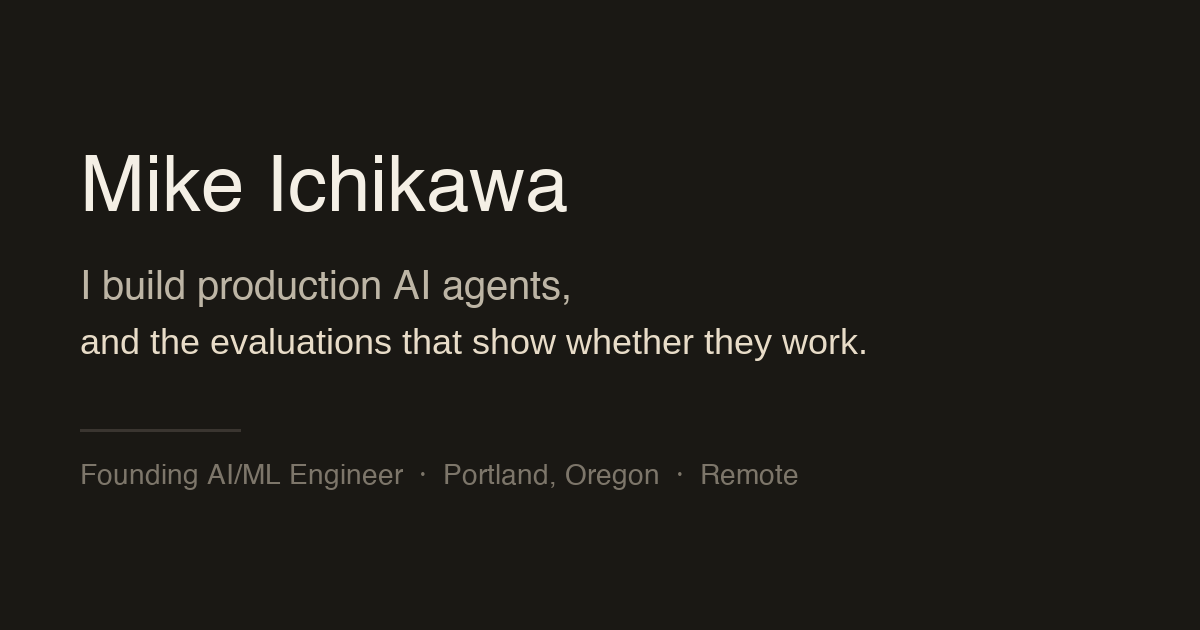
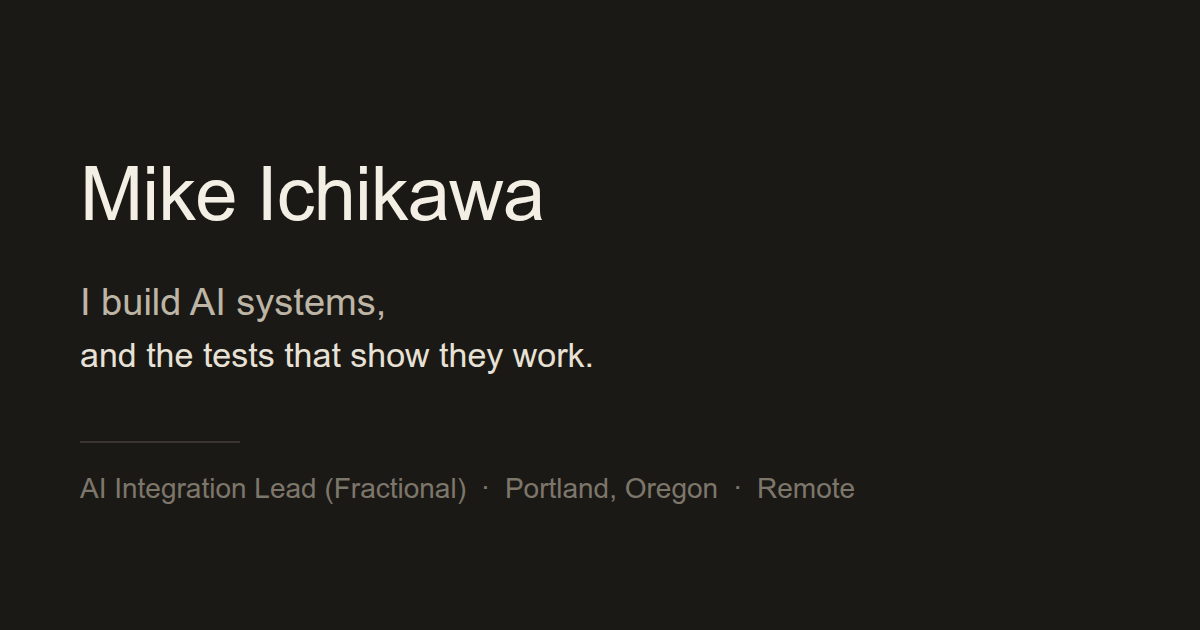
Homepage: current role first ('Now'), the agent as 'Before this', engine and study as side projects; new header and preview card

Changed region(s): [[0.0617, 0.4222, 0.7092, 0.6032], [0.0617, 0.6635, 0.7092, 0.8143], [0.0617, 0.2413, 0.4933, 0.3619]]

diff --git a/index.html b/index.html
@@ -4,19 +4,19 @@
 <meta charset="utf-8" />
 <meta name="viewport" content="width=device-width, initial-scale=1" />
 <title>Mike Ichikawa · AI engineer</title>
-<meta name="description" content="I build production AI agents, and the evaluations that show whether they work." />
+<meta name="description" content="I build AI systems, and the tests that show they work." />
 <link rel="icon" href="favicon.svg" type="image/svg+xml" />
 <link rel="canonical" href="https://mtichikawa.github.io/" />
 <meta property="og:type" content="website" />
 <meta property="og:url" content="https://mtichikawa.github.io/" />
 <meta property="og:title" content="Mike Ichikawa · AI engineer" />
-<meta property="og:description" content="I build production AI agents, and the evaluations that show whether they work." />
+<meta property="og:description" content="I build AI systems, and the tests that show they work." />
 <meta property="og:image" content="https://mtichikawa.github.io/og-card.png" />
 <meta property="og:image:width" content="1200" />
 <meta property="og:image:height" content="630" />
 <meta name="twitter:card" content="summary_large_image" />
 <meta name="twitter:title" content="Mike Ichikawa · AI engineer" />
-<meta name="twitter:description" content="I build production AI agents, and the evaluations that show whether they work." />
+<meta name="twitter:description" content="I build AI systems, and the tests that show they work." />
 <meta name="twitter:image" content="https://mtichikawa.github.io/og-card.png" />
 <link rel="preconnect" href="https://fonts.googleapis.com" />
 <link rel="preconnect" href="https://fonts.gstatic.com" crossorigin />
@@ -95,17 +95,6 @@ section:first-of-type{border-top:0}
 .links{font-family:var(--mono);font-size:.8rem;margin-top:.6rem}
 .links a{margin-right:1.25rem;text-decoration:none;border-bottom:1px solid var(--border)}
 
-/* ── FINDING (the probe study) ── */
-.finding{background:var(--bg-soft);border:1px solid var(--border);border-radius:4px;
-         padding:1.5rem;margin:1.25rem 0}
-.finding .lead{font-family:var(--serif);font-size:1.25rem;line-height:1.35;margin:0 0 .9rem;color:var(--ink)}
-.levers{display:grid;gap:.6rem;margin:1rem 0 0}
-.lever{display:grid;grid-template-columns:9rem 1fr;gap:.9rem;align-items:start;
-       font-size:.93rem;color:var(--ink-muted)}
-.lever b{font-family:var(--mono);font-size:.72rem;letter-spacing:.1em;text-transform:uppercase;
-         color:var(--ink);padding-top:.18rem}
-@media(max-width:34rem){.lever{grid-template-columns:1fr;gap:.15rem}}
-
 /* ── BEFORE ── */
 .before p{color:var(--ink-muted)}
 .before .list{font-family:var(--mono);font-size:.82rem;color:var(--ink-soft);
@@ -131,16 +120,6 @@ section:first-of-type{border-top:0}
 @media (max-width:640px){ .log{font-size:.68rem} .log.cols{font-size:.63rem} }
 .log b{color:var(--deep-accent);font-weight:500}
 .log .path{color:#9ec7e8}
-.fade{position:relative}
-.fade:after{content:"";position:absolute;left:0;right:0;bottom:0;height:4rem;pointer-events:none;
-            background:linear-gradient(to bottom,rgba(26,24,20,0),rgba(26,24,20,.96))}
-.two{display:grid;grid-template-columns:1fr 1fr;gap:1rem}
-@media(max-width:40rem){.two{grid-template-columns:1fr}}
-.ledger{width:100%;border-collapse:collapse;font-family:var(--mono);font-size:.78rem;margin:1rem 0 0}
-.ledger th{text-align:left;font-weight:500;color:var(--ink-soft);border-bottom:1px solid var(--border);
-           padding:.35rem .6rem .35rem 0;font-size:.7rem;letter-spacing:.08em;text-transform:uppercase}
-.ledger td{padding:.35rem .6rem .35rem 0;border-bottom:1px solid var(--border-soft);color:var(--ink-muted)}
-.v-solved{color:var(--ink-soft)} .v-fail{color:var(--red);font-weight:500} .v-void{color:#b08968}
 .note{font-family:var(--mono);font-size:.72rem;color:var(--ink-soft);margin-top:2.5rem}
 .cap{font-size:.93rem;color:var(--ink-muted);margin:.7rem 0 0}
 .fig{width:100%;height:auto;display:block;border:1px solid var(--border);border-radius:4px;background:#fff;cursor:zoom-in}
@@ -152,10 +131,10 @@ section:first-of-type{border-top:0}
 <header class="hero">
   <div class="wrap">
     <h1>Mike Ichikawa</h1>
-    <p class="lede">I build production AI agents, and the evaluations
-      <em>that show whether they work.</em></p>
+    <p class="lede">I build AI systems,
+      <em>and the tests that show they work.</em></p>
     <p class="meta">
-      <span>Founding AI/ML Engineer, Microclaw LLC</span>
+      <span>AI Integration Lead (Fractional)</span>
       <span>Portland, Oregon</span>
       <span>Remote, or on-site in Portland</span>
     </p>
@@ -171,13 +150,24 @@ section:first-of-type{border-top:0}
 <!-- ══ PROJECT INDEX ══ -->
 <section class="index">
   <div class="wrap">
-    <p class="index-lead">What I've built</p>
+    <p class="index-lead">Work</p>
     <div class="idx">
 
       <div class="idx-row">
+        <p class="idx-name"><a href="#now">Quoting app</a></p>
+        <p class="idx-what">Now. An LLM app that turns a customer's request for a quote, from
+          emails, drawings, scans and call notes, into product model numbers in seconds.</p>
+        <p class="idx-meta">
+          <span>Python &middot; Azure &middot; GitHub Actions</span>
+          <span>Client confidential</span>
+        </p>
+      </div>
+
+      <div class="idx-row">
         <p class="idx-name"><a href="#agent">M365 agent</a></p>
-        <p class="idx-what">A production AI agent in Microsoft Teams that picks one action out of
-          eighty-seven per request, and the scored test suite that tells me when it picks wrong.</p>
+        <p class="idx-what">Before this. A production AI agent in Microsoft Teams that chooses from
+          eighty-seven tools for each request, and the scored test suite that tells me when it
+          chooses wrong.</p>
         <p class="idx-meta">
           <span>TypeScript &middot; Azure OpenAI &middot; Microsoft Graph &middot; Postgres</span>
           <a href="https://marketplace.microsoft.com/en-us/product/saas/microclaw.microclaw?tab=Overview">Marketplace listing &rarr;</a>
@@ -185,22 +175,12 @@ section:first-of-type{border-top:0}
       </div>
 
       <div class="idx-row">
-        <p class="idx-name"><a href="#engine">Workflow engine</a></p>
-        <p class="idx-what">A multi-agent engine for long jobs, with a validator that checks the
-          graph before it runs.</p>
+        <p class="idx-name"><a href="#side">Side projects</a></p>
+        <p class="idx-what">A multi-agent workflow engine, and a study of what defeats a frontier
+          coding agent.</p>
         <p class="idx-meta">
-          <span>Python &middot; multi-agent orchestration</span>
-          <a href="https://mtichikawa.github.io/workflow-engine">Walkthrough &rarr;</a>
-        </p>
-      </div>
-
-      <div class="idx-row">
-        <p class="idx-name"><a href="#study">Coding-agent probe study</a></p>
-        <p class="idx-what">138 probes testing what defeats a frontier coding agent. The task it
-          produced fails Opus 5 and GPT-5.6 three times out of three.</p>
-        <p class="idx-meta">
-          <span>Python &middot; Docker &middot; harbor</span>
-          <a href="https://github.com/mtichikawa/klavis-tb3-submission">Repository &rarr;</a>
+          <a href="https://mtichikawa.github.io/workflow-engine">Engine walkthrough &rarr;</a>
+          <a href="https://github.com/mtichikawa/klavis-tb3-submission">Study repository &rarr;</a>
         </p>
       </div>
 
@@ -208,10 +188,64 @@ section:first-of-type{border-top:0}
   </div>
 </section>
 
-<!-- ══ 1. THE AGENT ══ -->
+<!-- ══ 1. NOW ══ -->
+<section id="now">
+  <div class="wrap">
+    <p class="eyebrow">Now &middot; AI Integration Lead (Fractional)</p>
+    <h2>AI integration for a small manufacturer</h2>
+
+    <div class="work">
+      <p>I lead AI integration for a small manufacturer, working directly with the owners. I'm
+        building a quoting app for their sales team and deploying the company's Azure platform
+        and delivery pipeline, with a self-hosted AI assistant as the next app on it.</p>
+
+      <p>A customer's request for a quote arrives however they send it: emails with attachments,
+        PDFs and drawings, spreadsheets, photos and scans, and notes from a phone call. The app
+        reads all of it and returns product model numbers in seconds, with every value linked to
+        the line it came from. The owners say finding that information can take a salesperson
+        half a day.</p>
+
+      <div class="exhibit">
+        <p class="exhibit-cap"><span>How a request becomes a quote</span><span>the AI reads, code decides</span></p>
+        <pre class="log cols">customer request   emails · PDFs · drawings · spreadsheets · scans · call notes
+       <span class="path">↓</span>
+LLM extraction     <b>quotes each value word for word, linked to its source line</b>
+       <span class="path">↓</span>
+rules code         built from the company's quoting guide; makes every product decision
+       <span class="path">↓</span>
+gaps or conflicts  <b>stop for a person; the app never guesses</b>
+       <span class="path">↓</span>
+model numbers      in seconds, every value traceable to the request</pre>
+        <p class="cap">The model never makes a product decision. It only extracts and quotes. The
+          decisions are deterministic code, so every product choice traces back to a rule in the
+          company's quoting guide.</p>
+      </div>
+
+      <div class="hard">
+        <span class="label">Changing a rule</span>
+        <p>An owner changes a quoting rule in one plain-English sentence. Before it takes effect,
+          the app reruns every open and approved quote and 50,000 generated requests under the old
+          and new rules, shows what would change, and a second person approves it.</p>
+      </div>
+
+      <p>The platform under it has staging and live environments for each app, rollback, a managed
+        identity with no stored secrets, private networking, and 112 automated tests on every pull
+        request.</p>
+
+      <div class="hard">
+        <span class="label">What's not here</span>
+        <p>The client is confidential, so there's no name, code or screenshot on this page.</p>
+      </div>
+
+      <p class="stack">Python · Azure · GitHub Actions · managed identity · private networking</p>
+    </div>
+  </div>
+</section>
+
+<!-- ══ 2. THE AGENT (before this) ══ -->
 <section id="agent">
   <div class="wrap">
-    <p class="eyebrow">Built solo, start to finish</p>
+    <p class="eyebrow">Before this &middot; built solo, start to finish</p>
     <h2>A production AI agent for Microsoft 365</h2>
 
     <div class="work">
@@ -225,7 +259,7 @@ section:first-of-type{border-top:0}
 
       <div class="hard">
         <span class="label">The hard part</span>
-        <p>It has to choose the right action out of eighty-seven. Sending every tool on every
+        <p>It chooses from eighty-seven tools for each request. Sending every tool on every
           message is expensive, so a retrieval step narrows the list first. The risk is that the
           short list drops the tool a request needs, so I measure that on test requests written
           blind. The redesigned selector offers every needed tool 98.1% of the time, up from 87.0%.</p>
@@ -296,144 +330,49 @@ Same tool, same args, 8× <span class="path">→</span> <b>block that call, tell
   </div>
 </section>
 
-<!-- ══ 2. THE ENGINE ══ -->
-<section id="engine">
+<!-- ══ 3. SIDE PROJECTS ══ -->
+<section id="side">
   <div class="wrap">
-    <p class="eyebrow">Built from scratch</p>
-    <h2>A multi-agent workflow engine</h2>
+    <p class="eyebrow">Side projects</p>
+    <h2>Built on my own time</h2>
 
     <div class="work">
-      <p>A Python engine that turns a plain-English request into a graph of small agents,
-        each with one job. Every workflow is checked before it runs, and any step that acts
-        outside the engine has to sit behind a person's approval.</p>
-
-      <p>The agents are one shared library: every workflow uses the same registered agent by
-        name. A learning loop works out a team's unwritten rules from their corrections, with
-        no fine-tuning. It works with MCP both ways: it can call outside MCP tools, and it
-        offers each of its agents as an MCP tool, plus one that builds and runs a workflow
-        from a plain-English request.</p>
-
-      <div class="hard">
-        <span class="label">Measured on blind test sets</span>
-        <p>Routing a clinic's patient messages to the right queue, with the clinic's rules never
-          written down: accuracy rose from 59% to 97% on 150 test messages as the engine learned
-          from 291 corrections. Its triage step sent all 160 medical messages out of 320 to a
-          person, with no false alarms. On 120 requests, it refused to fake 41 of the 48 jobs
-          that needed a capability it doesn't have.</p>
-      </div>
-
-      <div class="exhibit">
-        <p class="exhibit-cap"><span>The validator, before anything runs</span><span>26% &rarr; 93% of seeded faults</span></p>
-        <pre class="log"><b>[error]</b>   edge touches unknown step 'summarise'
-<b>[error]</b>   step 'rank' is unreachable from any entry
-<b>[error]</b>   loop edge review-&gt;extract has no `when` — it can only stop at the guard
-<b>[error]</b>   step 'verify' (verify) is missing contract inputs ['threshold']
-<b>[warning]</b> step 'classify' has a single guarded out-edge (when 'score &gt; 0.8')
-          and no other path — the work-item dead-ends whenever that guard is
-          false; add an else/fail path or make it a deliberate endpoint</pre>
-        <p class="cap">The four errors stop the graph before any agent runs. The warning
-          matters most. A step whose only exit has a condition drops every item that
-          fails it, and the run just returns fewer results. That can be on purpose, so the graph
-          still runs, but you're told before it starts. Against 615 faults seeded from a list
-          written by an agent that never saw the code, the validator caught 26%. I added data-flow
-          checks, and it now catches 93%, with no false alarms on the real workflows. The new
-          checks were written after I'd seen that list, so 93% is coverage of known faults, not of
-          unseen ones.</p>
-      </div>
-
-      <div class="exhibit">
-        <p class="exhibit-cap"><span>A real workflow, drawn by the engine</span><span>click to enlarge</span></p>
-        <a href="workflow-graph.svg" target="_blank" rel="noopener"><img src="workflow-graph.svg" alt="Workflow graph: a write step feeds a verify step, which has two guarded exits. Pass goes forward to a human-gated act step; fail loops back to write, carrying the issues found as feedback." class="fig" /></a>
-        <p class="cap">The engine drew this from the workflow's own definition. The check step
-          has two exits, pass and fail, so nothing gets dropped.</p>
-      </div>
-
-      <div class="hard">
-        <span class="label">What it does not do</span>
-        <p>The test sets are synthetic. Each was written by one model and checked by a
-          second, both blind to the code, and scored once. But the writers, the checkers and the
-          engine are all Claude models, so they could share a blind spot.</p>
-      </div>
-
+      <h3>A multi-agent workflow engine</h3>
+      <p>A Python engine, built from scratch, that turns a plain-English request into a graph of
+        small single-purpose agents. Every workflow is checked before it runs, and any step that
+        acts outside the engine has to sit behind a person's approval. It learns a team's
+        unwritten rules from their corrections, with no fine-tuning: on a clinic's routing rules
+        it was never shown, accuracy on 150 synthetic test messages rose from 59% to 97%.</p>
       <p class="stack">Python · agent orchestration · MCP client and server · graph validation</p>
       <p class="links"><a href="https://mtichikawa.github.io/workflow-engine">Walkthrough &rarr;</a></p>
     </div>
-  </div>
-</section>
-
-<!-- ══ 3. THE PROBE STUDY ══ -->
-<section id="study">
-  <div class="wrap">
-    <p class="eyebrow">Research &middot; 138 probes</p>
-    <h2>What it takes to stump a coding agent</h2>
 
     <div class="work">
-      <p>I set out to build one task a frontier coding agent couldn't solve, and kept
-        track of why almost every attempt failed.</p>
-
-      <div class="finding">
-        <p class="lead">Complexity doesn't stop it.</p>
-        <p style="margin:0 0 .8rem;color:var(--ink-muted)">The agent solved thirty-one of
-          thirty-three probes. In the solve logs I read, it took in the whole system and fixed every
-          planted bug at once, so adding more bugs, or tangling them together, changed nothing.
-          Three things did work.</p>
-        <div class="levers">
-          <div class="lever"><b>Motion</b><span>The system runs under load and can't be stopped to inspect.</span></div>
-          <div class="lever"><b>Opacity</b><span>A component with no source, an undocumented format, or state that has to be recovered rather than read.</span></div>
-          <div class="lever"><b>Misleading&nbsp;evidence</b><span>Every available observation is wrong in a way no single observation reveals.</span></div>
-        </div>
-      </div>
-
-      <p>Both probes that survived had misleading evidence. So I built the final task around
-        it and ran it on the benchmark's own harness, three trials per model.</p>
-
-      <div class="exhibit">
-        <p class="exhibit-cap"><span>The finished task, scored</span><span>reward 0 = the agent failed</span></p>
-        <pre class="log cols">agent         model                     effort   trials   reward
-<b>claude-code   anthropic/claude-opus-5   max      3        0.000</b>
-<b>codex         openai/gpt-5.6-sol        xhigh    3        0.000</b>
-oracle        (reference solution)      &mdash;        1        1.000
-nop           (do nothing)              &mdash;        1        0.000
-
-<span class="path">// no crash, no rate limit, no timeout, read from the harness's own result.json
-// 22 of 22 repository static checks pass; verifier runs in a separate container</span></pre>
-        <p class="cap">The reference solution scores 1 and doing nothing scores 0, so a zero
-          means the agent failed, not the grader. All six trials got the numbers right and then
-          blamed the wrong causes, which is the mistake the task was built to provoke.</p>
-      </div>
-
-      <p>My own measurements went wrong twice, and both are in the record. A process that
-        died in three seconds produced seventy-one &ldquo;results&rdquo; that were really
-        error messages. A verifier that was too strict failed a correct answer and made a
-        probe look like a survivor. The rule I kept: <b>a probe only counts as a failure
-        after its own reference solution passes its own grader.</b></p>
-
-      <table class="ledger">
-        <tr><th>Probe</th><th>Runs</th><th>Verdict</th><th>Why</th></tr>
-        <tr><td>p22-reconciliation</td><td>2</td><td class="v-fail">SURVIVED</td><td>misleading evidence</td></tr>
-        <tr><td>p18-webhook-ordering</td><td>4</td><td class="v-fail">SURVIVED</td><td>replica lag, unknown</td></tr>
-        <tr><td>p16-rls-isolation</td><td>1</td><td class="v-solved">solved</td><td>full source, static</td></tr>
-        <tr><td>p10-partition-order</td><td>1</td><td class="v-void">false survivor</td><td>my verifier was wrong</td></tr>
-        <tr><td>p01-cancellation</td><td>0</td><td class="v-void">voided</td><td>70-byte log</td></tr>
-      </table>
-
+      <h3>What it takes to stump a coding agent</h3>
+      <p>I built 138 probe environments looking for one task a frontier coding agent couldn't
+        solve. Complexity didn't stop it: it solved thirty-one of thirty-three probes.
+        Misleading evidence did, so I built the final task around it. On the benchmark's own
+        harness, Claude Code on Claude Opus 5 and Codex on GPT-5.6 failed all six trials. Every
+        agent got the numbers right and then reported the wrong number of causes.</p>
       <p class="stack">Python · Docker · reproducible environments · oracle-verified grading</p>
       <p class="links"><a href="https://github.com/mtichikawa/klavis-tb3-submission/blob/master/docs/search-process.md">Read the write-up &rarr;</a><a href="https://github.com/mtichikawa/klavis-tb3-submission">Repository &rarr;</a></p>
     </div>
   </div>
 </section>
 
-<!-- ══ 4. BEFORE THIS ══ -->
+<!-- ══ 4. EARLIER ══ -->
 <section class="before">
   <div class="wrap">
-    <p class="eyebrow">2023 &ndash; 2026</p>
-    <h2>Before this</h2>
-    <p>Three years as a full-time parent while retraining into software. I started with data
+    <p class="eyebrow">Earlier</p>
+    <h2>How I got here</h2>
+    <p>I have a BS in Mechanical Engineering from UC Berkeley and an MS in Mathematics. I spent
+      three years in chip design at Intel, then taught college math for eight years.</p>
+    <p>Then I spent three years as a full-time parent while retraining into software. I started with data
       engineering and machine learning, then moved to building agents as the field did. That
       period left seventeen public repositories, five of them a trading research system. They
       were for learning, and they're no longer growing.</p>
     <p class="list">forecasting · anomaly detection · NLP · cloud ETL · ML serving ·
-      a Databricks medallion lakehouse · streaming analytics · a trading backtest system</p>
+      a medallion lakehouse · streaming analytics · a trading backtest system</p>
     <p class="links"><a href="https://github.com/mtichikawa">All repositories &rarr;</a></p>
   </div>
 </section>
